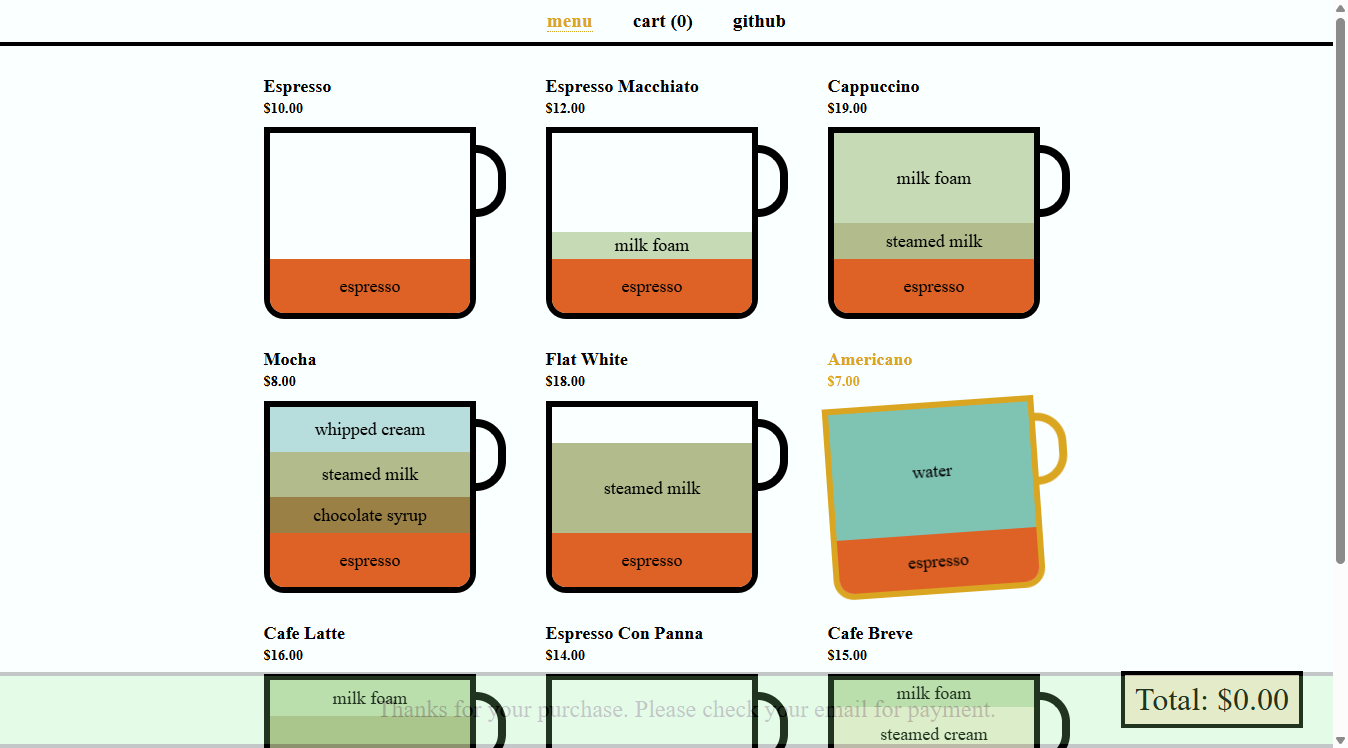
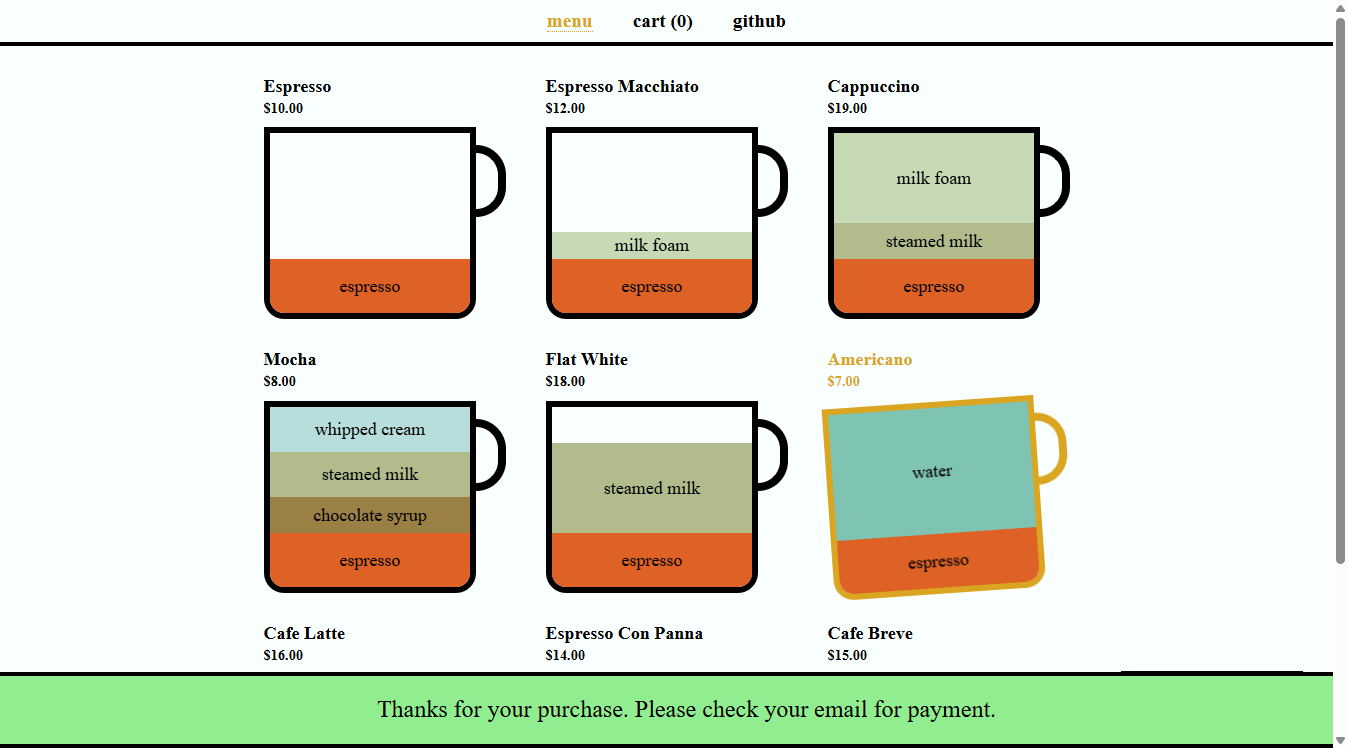
Agrego test de consulta de mascota

Changed region(s): [[0.0, 0.8917, 0.997, 1.0]]

diff --git a/reportes/reporte.html b/reportes/reporte.html
@@ -328,7 +328,7 @@ div.media {
   </head>
   <body>
     <h1 id="title">reporte.html</h1>
-    <p>Report generated on 22-Oct-2026 at 00:39:13 by <a href="https://pypi.python.org/pypi/pytest-html">pytest-html</a>
+    <p>Report generated on 22-Oct-2026 at 18:06:53 by <a href="https://pypi.python.org/pypi/pytest-html">pytest-html</a>
         v4.2.0</p>
     <div id="environment-header">
       <h2>Environment</h2>
@@ -383,7 +383,7 @@ div.media {
         <h2>Summary</h2>
         <div class="additional-summary prefix">
         </div>
-        <p class="run-count">9 tests took 00:00:18.</p>
+        <p class="run-count">4 tests took 00:00:05.</p>
         <p class="filter">(Un)check the boxes to filter the results.</p>
         <div class="summary__reload">
           <div class="summary__reload__button hidden" onclick="location.reload()">
@@ -396,7 +396,7 @@ div.media {
             <input checked="true" class="filter" name="filter_checkbox" type="checkbox" data-test-result="failed" disabled>
             <span class="failed">0 Failed,</span>
             <input checked="true" class="filter" name="filter_checkbox" type="checkbox" data-test-result="passed" >
-            <span class="passed">9 Passed,</span>
+            <span class="passed">4 Passed,</span>
             <input checked="true" class="filter" name="filter_checkbox" type="checkbox" data-test-result="skipped" disabled>
             <span class="skipped">0 Skipped,</span>
             <input checked="true" class="filter" name="filter_checkbox" type="checkbox" data-test-result="xfailed" disabled>
@@ -431,7 +431,7 @@ div.media {
       </thead>
     </table>
   <footer>
-    <div id="data-container" data-jsonblob="{&#34;environment&#34;: {&#34;Python&#34;: &#34;3.14.5&#34;, &#34;Platform&#34;: &#34;Windows-11-10.0.26200-SP0&#34;, &#34;Packages&#34;: {&#34;pytest&#34;: &#34;9.1.1&#34;, &#34;pluggy&#34;: &#34;1.7.0&#34;}, &#34;Plugins&#34;: {&#34;html&#34;: &#34;4.2.0&#34;, &#34;metadata&#34;: &#34;3.1.1&#34;}, &#34;JAVA_HOME&#34;: &#34;C:\\Program Files\\Java\\jdk-21.0.10&#34;}, &#34;tests&#34;: {&#34;unit_tests/test_fizzbuzz.py::test_fizz&#34;: [{&#34;extras&#34;: [], &#34;result&#34;: &#34;Passed&#34;, &#34;testId&#34;: &#34;unit_tests/test_fizzbuzz.py::test_fizz&#34;, &#34;duration&#34;: &#34;1 ms&#34;, &#34;resultsTableRow&#34;: [&#34;&lt;td class=\&#34;col-result\&#34;&gt;Passed&lt;/td&gt;&#34;, &#34;&lt;td class=\&#34;col-testId\&#34;&gt;unit_tests/test_fizzbuzz.py::test_fizz&lt;/td&gt;&#34;, &#34;&lt;td class=\&#34;col-duration\&#34;&gt;1 ms&lt;/td&gt;&#34;, &#34;&lt;td class=\&#34;col-links\&#34;&gt;&lt;/td&gt;&#34;], &#34;log&#34;: &#34;No log output captured.&#34;}], &#34;unit_tests/test_fizzbuzz.py::test_buzz&#34;: [{&#34;extras&#34;: [], &#34;result&#34;: &#34;Passed&#34;, &#34;testId&#34;: &#34;unit_tests/test_fizzbuzz.py::test_buzz&#34;, &#34;duration&#34;: &#34;0 ms&#34;, &#34;resultsTableRow&#34;: [&#34;&lt;td class=\&#34;col-result\&#34;&gt;Passed&lt;/td&gt;&#34;, &#34;&lt;td class=\&#34;col-testId\&#34;&gt;unit_tests/test_fizzbuzz.py::test_buzz&lt;/td&gt;&#34;, &#34;&lt;td class=\&#34;col-duration\&#34;&gt;0 ms&lt;/td&gt;&#34;, &#34;&lt;td class=\&#34;col-links\&#34;&gt;&lt;/td&gt;&#34;], &#34;log&#34;: &#34;No log output captured.&#34;}], &#34;unit_tests/test_fizzbuzz.py::test_fizzbuzz&#34;: [{&#34;extras&#34;: [], &#34;result&#34;: &#34;Passed&#34;, &#34;testId&#34;: &#34;unit_tests/test_fizzbuzz.py::test_fizzbuzz&#34;, &#34;duration&#34;: &#34;0 ms&#34;, &#34;resultsTableRow&#34;: [&#34;&lt;td class=\&#34;col-result\&#34;&gt;Passed&lt;/td&gt;&#34;, &#34;&lt;td class=\&#34;col-testId\&#34;&gt;unit_tests/test_fizzbuzz.py::test_fizzbuzz&lt;/td&gt;&#34;, &#34;&lt;td class=\&#34;col-duration\&#34;&gt;0 ms&lt;/td&gt;&#34;, &#34;&lt;td class=\&#34;col-links\&#34;&gt;&lt;/td&gt;&#34;], &#34;log&#34;: &#34;No log output captured.&#34;}], &#34;api_tests/test_petstore_api.py::test_crear_mascota&#34;: [{&#34;extras&#34;: [], &#34;result&#34;: &#34;Passed&#34;, &#34;testId&#34;: &#34;api_tests/test_petstore_api.py::test_crear_mascota&#34;, &#34;duration&#34;: &#34;00:00:01&#34;, &#34;resultsTableRow&#34;: [&#34;&lt;td class=\&#34;col-result\&#34;&gt;Passed&lt;/td&gt;&#34;, &#34;&lt;td class=\&#34;col-testId\&#34;&gt;api_tests/test_petstore_api.py::test_crear_mascota&lt;/td&gt;&#34;, &#34;&lt;td class=\&#34;col-duration\&#34;&gt;00:00:01&lt;/td&gt;&#34;, &#34;&lt;td class=\&#34;col-links\&#34;&gt;&lt;/td&gt;&#34;], &#34;log&#34;: &#34;No log output captured.&#34;}], &#34;api_tests/test_petstore_api.py::test_buscar_mascotas_disponibles&#34;: [{&#34;extras&#34;: [], &#34;result&#34;: &#34;Passed&#34;, &#34;testId&#34;: &#34;api_tests/test_petstore_api.py::test_buscar_mascotas_disponibles&#34;, &#34;duration&#34;: &#34;00:00:01&#34;, &#34;resultsTableRow&#34;: [&#34;&lt;td class=\&#34;col-result\&#34;&gt;Passed&lt;/td&gt;&#34;, &#34;&lt;td class=\&#34;col-testId\&#34;&gt;api_tests/test_petstore_api.py::test_buscar_mascotas_disponibles&lt;/td&gt;&#34;, &#34;&lt;td class=\&#34;col-duration\&#34;&gt;00:00:01&lt;/td&gt;&#34;, &#34;&lt;td class=\&#34;col-links\&#34;&gt;&lt;/td&gt;&#34;], &#34;log&#34;: &#34;No log output captured.&#34;}], &#34;api_tests/test_petstore_api.py::test_mascota_inexistente&#34;: [{&#34;extras&#34;: [], &#34;result&#34;: &#34;Passed&#34;, &#34;testId&#34;: &#34;api_tests/test_petstore_api.py::test_mascota_inexistente&#34;, &#34;duration&#34;: &#34;00:00:01&#34;, &#34;resultsTableRow&#34;: [&#34;&lt;td class=\&#34;col-result\&#34;&gt;Passed&lt;/td&gt;&#34;, &#34;&lt;td class=\&#34;col-testId\&#34;&gt;api_tests/test_petstore_api.py::test_mascota_inexistente&lt;/td&gt;&#34;, &#34;&lt;td class=\&#34;col-duration\&#34;&gt;00:00:01&lt;/td&gt;&#34;, &#34;&lt;td class=\&#34;col-links\&#34;&gt;&lt;/td&gt;&#34;], &#34;log&#34;: &#34;No log output captured.&#34;}], &#34;web_tests/test_coffee_cart.py::test_carga_inicial&#34;: [{&#34;extras&#34;: [], &#34;result&#34;: &#34;Passed&#34;, &#34;testId&#34;: &#34;web_tests/test_coffee_cart.py::test_carga_inicial&#34;, &#34;duration&#34;: &#34;00:00:05&#34;, &#34;resultsTableRow&#34;: [&#34;&lt;td class=\&#34;col-result\&#34;&gt;Passed&lt;/td&gt;&#34;, &#34;&lt;td class=\&#34;col-testId\&#34;&gt;web_tests/test_coffee_cart.py::test_carga_inicial&lt;/td&gt;&#34;, &#34;&lt;td class=\&#34;col-duration\&#34;&gt;00:00:05&lt;/td&gt;&#34;, &#34;&lt;td class=\&#34;col-links\&#34;&gt;&lt;/td&gt;&#34;], &#34;log&#34;: &#34;No log output captured.&#34;}], &#34;web_tests/test_coffee_cart.py::test_agregar_producto&#34;: [{&#34;extras&#34;: [], &#34;result&#34;: &#34;Passed&#34;, &#34;testId&#34;: &#34;web_tests/test_coffee_cart.py::test_agregar_producto&#34;, &#34;duration&#34;: &#34;00:00:05&#34;, &#34;resultsTableRow&#34;: [&#34;&lt;td class=\&#34;col-result\&#34;&gt;Passed&lt;/td&gt;&#34;, &#34;&lt;td class=\&#34;col-testId\&#34;&gt;web_tests/test_coffee_cart.py::test_agregar_producto&lt;/td&gt;&#34;, &#34;&lt;td class=\&#34;col-duration\&#34;&gt;00:00:05&lt;/td&gt;&#34;, &#34;&lt;td class=\&#34;col-links\&#34;&gt;&lt;/td&gt;&#34;], &#34;log&#34;: &#34;No log output captured.&#34;}], &#34;web_tests/test_coffee_cart.py::test_compra_completa&#34;: [{&#34;extras&#34;: [], &#34;result&#34;: &#34;Passed&#34;, &#34;testId&#34;: &#34;web_tests/test_coffee_cart.py::test_compra_completa&#34;, &#34;duration&#34;: &#34;00:00:05&#34;, &#34;resultsTableRow&#34;: [&#34;&lt;td class=\&#34;col-result\&#34;&gt;Passed&lt;/td&gt;&#34;, &#34;&lt;td class=\&#34;col-testId\&#34;&gt;web_tests/test_coffee_cart.py::test_compra_completa&lt;/td&gt;&#34;, &#34;&lt;td class=\&#34;col-duration\&#34;&gt;00:00:05&lt;/td&gt;&#34;, &#34;&lt;td class=\&#34;col-links\&#34;&gt;&lt;/td&gt;&#34;], &#34;log&#34;: &#34;No log output captured.&#34;}]}, &#34;renderCollapsed&#34;: [&#34;passed&#34;], &#34;initialSort&#34;: &#34;result&#34;, &#34;title&#34;: &#34;reporte.html&#34;}"></div>
+    <div id="data-container" data-jsonblob="{&#34;environment&#34;: {&#34;Python&#34;: &#34;3.14.5&#34;, &#34;Platform&#34;: &#34;Windows-11-10.0.26200-SP0&#34;, &#34;Packages&#34;: {&#34;pytest&#34;: &#34;9.1.1&#34;, &#34;pluggy&#34;: &#34;1.7.0&#34;}, &#34;Plugins&#34;: {&#34;html&#34;: &#34;4.2.0&#34;, &#34;metadata&#34;: &#34;3.1.1&#34;}, &#34;JAVA_HOME&#34;: &#34;C:\\Program Files\\Java\\jdk-21.0.10&#34;}, &#34;tests&#34;: {&#34;api_tests/test_petstore_api.py::test_crear_mascota&#34;: [{&#34;extras&#34;: [], &#34;result&#34;: &#34;Passed&#34;, &#34;testId&#34;: &#34;api_tests/test_petstore_api.py::test_crear_mascota&#34;, &#34;duration&#34;: &#34;936 ms&#34;, &#34;resultsTableRow&#34;: [&#34;&lt;td class=\&#34;col-result\&#34;&gt;Passed&lt;/td&gt;&#34;, &#34;&lt;td class=\&#34;col-testId\&#34;&gt;api_tests/test_petstore_api.py::test_crear_mascota&lt;/td&gt;&#34;, &#34;&lt;td class=\&#34;col-duration\&#34;&gt;936 ms&lt;/td&gt;&#34;, &#34;&lt;td class=\&#34;col-links\&#34;&gt;&lt;/td&gt;&#34;], &#34;log&#34;: &#34;No log output captured.&#34;}], &#34;api_tests/test_petstore_api.py::test_buscar_mascotas_disponibles&#34;: [{&#34;extras&#34;: [], &#34;result&#34;: &#34;Passed&#34;, &#34;testId&#34;: &#34;api_tests/test_petstore_api.py::test_buscar_mascotas_disponibles&#34;, &#34;duration&#34;: &#34;00:00:01&#34;, &#34;resultsTableRow&#34;: [&#34;&lt;td class=\&#34;col-result\&#34;&gt;Passed&lt;/td&gt;&#34;, &#34;&lt;td class=\&#34;col-testId\&#34;&gt;api_tests/test_petstore_api.py::test_buscar_mascotas_disponibles&lt;/td&gt;&#34;, &#34;&lt;td class=\&#34;col-duration\&#34;&gt;00:00:01&lt;/td&gt;&#34;, &#34;&lt;td class=\&#34;col-links\&#34;&gt;&lt;/td&gt;&#34;], &#34;log&#34;: &#34;No log output captured.&#34;}], &#34;api_tests/test_petstore_api.py::test_consultar_mascota&#34;: [{&#34;extras&#34;: [], &#34;result&#34;: &#34;Passed&#34;, &#34;testId&#34;: &#34;api_tests/test_petstore_api.py::test_consultar_mascota&#34;, &#34;duration&#34;: &#34;00:00:02&#34;, &#34;resultsTableRow&#34;: [&#34;&lt;td class=\&#34;col-result\&#34;&gt;Passed&lt;/td&gt;&#34;, &#34;&lt;td class=\&#34;col-testId\&#34;&gt;api_tests/test_petstore_api.py::test_consultar_mascota&lt;/td&gt;&#34;, &#34;&lt;td class=\&#34;col-duration\&#34;&gt;00:00:02&lt;/td&gt;&#34;, &#34;&lt;td class=\&#34;col-links\&#34;&gt;&lt;/td&gt;&#34;], &#34;log&#34;: &#34;No log output captured.&#34;}], &#34;api_tests/test_petstore_api.py::test_mascota_inexistente&#34;: [{&#34;extras&#34;: [], &#34;result&#34;: &#34;Passed&#34;, &#34;testId&#34;: &#34;api_tests/test_petstore_api.py::test_mascota_inexistente&#34;, &#34;duration&#34;: &#34;892 ms&#34;, &#34;resultsTableRow&#34;: [&#34;&lt;td class=\&#34;col-result\&#34;&gt;Passed&lt;/td&gt;&#34;, &#34;&lt;td class=\&#34;col-testId\&#34;&gt;api_tests/test_petstore_api.py::test_mascota_inexistente&lt;/td&gt;&#34;, &#34;&lt;td class=\&#34;col-duration\&#34;&gt;892 ms&lt;/td&gt;&#34;, &#34;&lt;td class=\&#34;col-links\&#34;&gt;&lt;/td&gt;&#34;], &#34;log&#34;: &#34;No log output captured.&#34;}]}, &#34;renderCollapsed&#34;: [&#34;passed&#34;], &#34;initialSort&#34;: &#34;result&#34;, &#34;title&#34;: &#34;reporte.html&#34;}"></div>
     <script>
       (function(){function r(e,n,t){function o(i,f){if(!n[i]){if(!e[i]){var c="function"==typeof require&&require;if(!f&&c)return c(i,!0);if(u)return u(i,!0);var a=new Error("Cannot find module '"+i+"'");throw a.code="MODULE_NOT_FOUND",a}var p=n[i]={exports:{}};e[i][0].call(p.exports,function(r){var n=e[i][1][r];return o(n||r)},p,p.exports,r,e,n,t)}return n[i].exports}for(var u="function"==typeof require&&require,i=0;i<t.length;i++)o(t[i]);return o}return r})()({1:[function(require,module,exports){
 const { getCollapsedCategory, setCollapsedIds } = require('./storage.js')

diff --git a/api_tests/test_petstore_api.py b/api_tests/test_petstore_api.py
@@ -7,7 +7,9 @@ def test_crear_mascota():
     mascota = {"id": 987654, "name": "Tony", "photoUrls": [], "status": "available"}
     respuesta = requests.post(URL + "/pet", json=mascota)
     assert respuesta.status_code == 200
-    assert respuesta.json()["name"] == "Tony"
+    # json que tiene que devolver la API (agrega el campo tags vacio)
+    esperado = {"id": 987654, "name": "Tony", "photoUrls": [], "tags": [], "status": "available"}
+    assert respuesta.json() == esperado
 
 
 def test_buscar_mascotas_disponibles():
@@ -16,7 +18,20 @@ def test_buscar_mascotas_disponibles():
     assert len(respuesta.json()) > 0
 
 
+def test_consultar_mascota():
+    # primero se crea la mascota para que este test no dependa del otro
+    mascota = {"id": 987654, "name": "Tony", "photoUrls": [], "status": "available"}
+    requests.post(URL + "/pet", json=mascota)
+
+    respuesta = requests.get(URL + "/pet/987654")
+    assert respuesta.status_code == 200
+    esperado = {"id": 987654, "name": "Tony", "photoUrls": [], "tags": [], "status": "available"}
+    assert respuesta.json() == esperado
+
+
 def test_mascota_inexistente():
     # el id 0 no existe, tiene que dar error 404
     respuesta = requests.get(URL + "/pet/0")
     assert respuesta.status_code == 404
+    esperado = {"code": 1, "type": "error", "message": "Pet not found"}
+    assert respuesta.json() == esperado

diff --git a/informe_final.md b/informe_final.md
@@ -11,7 +11,7 @@
 ## 2. Estrategia de testing
 
 - **Unitarias:** se prueba la funcion aislada, un caso por cada regla (multiplo de 3, de 5 y de ambos).
-- **API:** se prueban peticiones reales con `requests` y se valida el codigo de estado y parte del contenido de la respuesta. Se cubre un caso de exito al crear, un caso de busqueda y un caso de error (404).
+- **API:** se prueban peticiones reales con `requests` y se valida el codigo de estado y el json de la respuesta. Se cubre un caso de exito al crear, uno de busqueda, uno de consulta de una mascota existente y uno de error (404). El test de consulta crea antes la mascota que va a pedir, para no depender de otros tests ni de lo que haya en el servidor.
 - **UI:** se automatiza el recorrido de un usuario con Selenium: carga inicial, agregar un producto y compra completa. Se usan selectores estables (`data-test`, `aria-label` e `id`).
 - Los tres niveles se ejecutan con un unico comando (`pytest`) y generan un reporte HTML.
 - Cuando un test web falla se guarda una captura de pantalla automaticamente en `evidencias/`.
@@ -23,9 +23,10 @@
 | UT-01 | Unitario | fizzbuzz(6) | 'Fizz' |
 | UT-02 | Unitario | fizzbuzz(10) | 'Buzz' |
 | UT-03 | Unitario | fizzbuzz(15) | 'FizzBuzz' |
-| API-01 | API | POST /pet con una mascota nueva | codigo 200 y el nombre enviado |
+| API-01 | API | POST /pet con una mascota nueva | codigo 200 y el json con los datos enviados (la API agrega `tags: []`) |
 | API-02 | API | GET /pet/findByStatus?status=available | codigo 200 y lista con mascotas |
-| API-03 | API | GET /pet/0 (no existe) | codigo 404 |
+| API-03 | API | GET /pet/987654 (mascota creada antes en el mismo test) | codigo 200 y el json completo de la mascota |
+| API-04 | API | GET /pet/0 (no existe) | codigo 404 y el json `{"code": 1, "type": "error", "message": "Pet not found"}` |
 | UI-01 | UI | Carga inicial | se ve el catalogo y el carrito dice `cart (0)` |
 | UI-02 | UI | Agregar un Espresso | el carrito dice `cart (1)` y el total es $10.00 |
 | UI-03 | UI | Comprar Espresso y Cappuccino completando nombre y email | aparece "Thanks for your purchase" |
@@ -44,14 +45,14 @@
 
 ## 5. Resultados obtenidos
 
-- Tests ejecutados: **9**
-- Aprobados: **9**
+- Tests ejecutados: **10**
+- Aprobados: **10**
 - Fallidos: **0**
 - Tiempo total aproximado: 18 segundos
 - Reporte: `reportes/reporte.html`
 - Evidencias: `evidencias/ui1_carga_inicial.png`, `ui2_agregar_producto.png` y `ui3_compra_completa.png`
 - Se verifico tambien que, si un test web falla, se genera una captura `ERROR_<nombre del test>.png` en `evidencias/`.
-- Pipeline de GitHub Actions (workflow "Tests"): se ejecuta en cada push a `main`. En la ultima ejecucion corrieron los 9 tests y todos pasaron (`9 passed`). El reporte HTML y las evidencias quedan disponibles en `/reportes` y `/evidencias`.
+- Pipeline de GitHub Actions (workflow "Tests"): se ejecuta en cada push a `main`. En la ultima ejecucion corrieron los 10 tests y todos pasaron (`10 passed`). El reporte HTML y las evidencias quedan disponibles en `/reportes` y `/evidencias`.
 
 ## 6. Incidencias encontradas
 

diff --git a/README.md b/README.md
@@ -1,9 +1,9 @@
 # TP Integrador - Testing automatizado
 
-Trabajo practico con 9 tests automatizados en Python:
+Trabajo practico con 10 tests automatizados en Python:
 
 - 3 tests unitarios (pytest) sobre la funcion FizzBuzz
-- 3 tests de API (pytest + requests) sobre [Petstore](https://petstore.swagger.io)
+- 4 tests de API (pytest + requests) sobre [Petstore](https://petstore.swagger.io)
 - 3 tests de UI (pytest + Selenium) sobre [Coffee Cart](https://coffee-cart.app/)
 
 ## Estructura
@@ -65,9 +65,10 @@ pytest web_tests
 
 | ID | Caso | Resultado esperado |
 |----|------|--------------------|
-| API-01 | POST /pet (crear mascota) | codigo 200 y el nombre enviado |
+| API-01 | POST /pet (crear mascota) | codigo 200 y el json con los datos enviados (la API agrega `tags: []`) |
 | API-02 | GET /pet/findByStatus?status=available | codigo 200 y lista con mascotas |
-| API-03 | GET /pet/0 (no existe) | codigo 404 |
+| API-03 | GET /pet/987654 (mascota creada antes en el mismo test) | codigo 200 y el json completo de la mascota |
+| API-04 | GET /pet/0 (no existe) | codigo 404 y el json `{"code": 1, "type": "error", "message": "Pet not found"}` |
 
 ### UI
 
